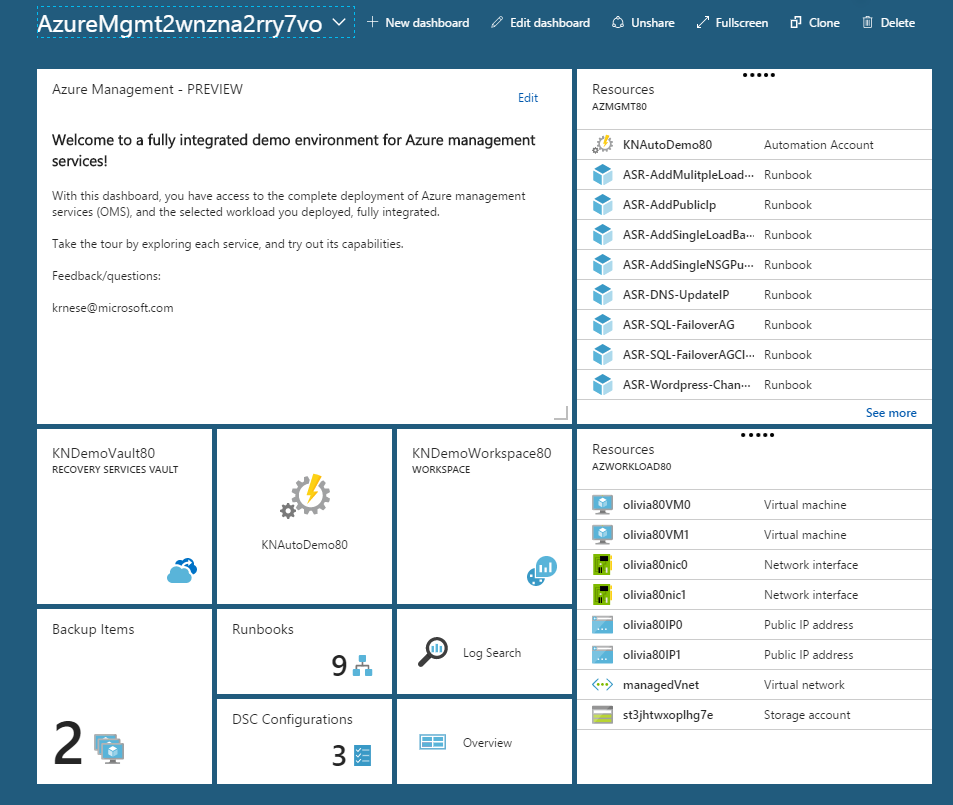
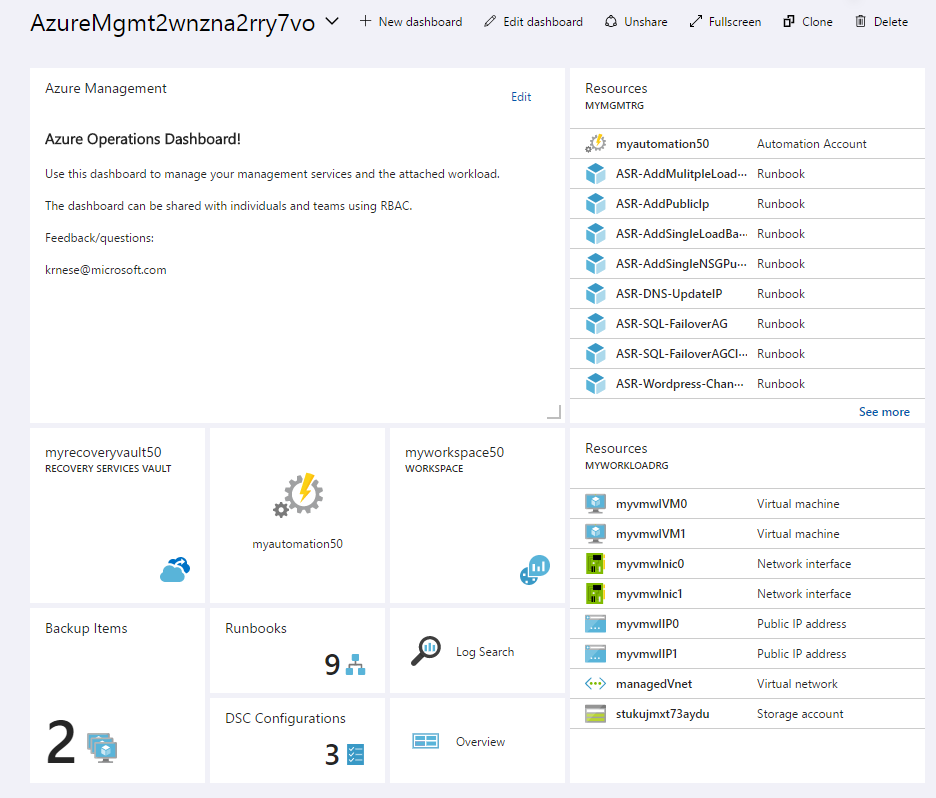
updated instructions

Changed region(s): [[0.0, 0.0, 1.0, 1.0], [0.7746, 0.6015, 0.9295, 0.9023], [0.2788, 0.5714, 0.3718, 0.6917]]

diff --git a/ARM/lab4/README.md b/ARM/lab4/README.md
@@ -1,6 +1,6 @@
-# Microsoft Operations Management Suite
+# Nested Resource Manager templates
 
-Your time is precious, so here's a set of ARM templates that will deploy all of the OMS services, fully integrated, with running VM workloads attached to it.
+This sample is built specifically as part of the **Azure Resource Manager - Demystified** hackathon.
 
 ### How to deploy
 
@@ -8,22 +8,22 @@ The main template will deploy resources into two different resource groups, and 
 	
 	# Create 2 resource groups, for mgmt and workload
 	
-	$MgmtRg = New-AzureRmResourceGroup -Name mgmtRg -Location westeurope -Verbose
-	$WorkloadRg = New-AzureRmResourceGroup -Name workloadRg -Location westeurope -Verbose
+	$MgmtRg = New-AzureRmResourceGroup -Name mymgmtrg -Location westeurope -Verbose
+	$WorkloadRg = New-AzureRmResourceGroup -Name myworkloadrg -Location westeurope -Verbose
 	
-	# Define parameters for template deployment
+	# Define parameters for template deployment - remember to change the values!
 	
-	$OMSWorkspaceName = 'myOmsWorkspace'
+	$OMSWorkspaceName = 'myworkspace50'
 	$OMSWorkspaceRegion = 'West Europe'
-	$OMSRecoveryVaultName = 'myRecoveryVault'
+	$OMSRecoveryVaultName = 'myrecoveryvault50'
 	$OMSRecoveryVaultRegion = 'West Europe'
-	$OMSAutomationName = 'MyAutomationAccount'
+	$OMSAutomationName = 'myautomation50'
 	$OMSAutomationRegion = 'West Europe'
 	$azureAdmin = 'yourUser@domain.com'
-	$Platform = 'Windows' # Note that Linux isn't fully supported yet
+	$Platform = 'Windows'
 	$userName = 'azureadmin'
-	$vmNameSuffix = 'workload'
-	$instanceCount = '4'
+	$vmNameSuffix = 'myvmwl'
+	$instanceCount = '2'
 	$DSCJobGuid = (New-Guid)
 	$DSCJobGuid2 = (New-Guid)
 	$DSCJobGuid3 = (New-Guid)
@@ -32,7 +32,7 @@ The main template will deploy resources into two different resource groups, and 
 	
 	New-AzureRmResourceGroupDeployment -Name myDemo `
 	                                   -ResourceGroupName $MgmtRg.ResourceGroupName `
-	                                   -TemplateUri https://raw.githubusercontent.com/krnese/AzureDeploy/master/OMS/MSOMS/OMSDemo/azuredeploy.json `
+	                                   -TemplateUri 'https://raw.githubusercontent.com/krnese/AzureDeploy/master/ARM/lab4/azuredeploy.json' `
 	                                   -vmResourceGroup $WorkloadRg.ResourceGroupName `
 	                                   -omsRecoveryVaultName $OMSRecoveryVaultName `
 	                                   -omsRecoveryVaultRegion $OMSRecoveryVaultRegion `
@@ -48,7 +48,7 @@ The main template will deploy resources into two different resource groups, and 
 	                                   -DSCJobGuid $DSCJobGuid `
 	                                   -DSCJobGuid2 $DSCJobGuid2 `
 	                                   -DSCJobGuid3 $DSCJobGuid3 `
-	                                   -verbose 
+	                                   -verbose
 
 
 ### Post Deployment
